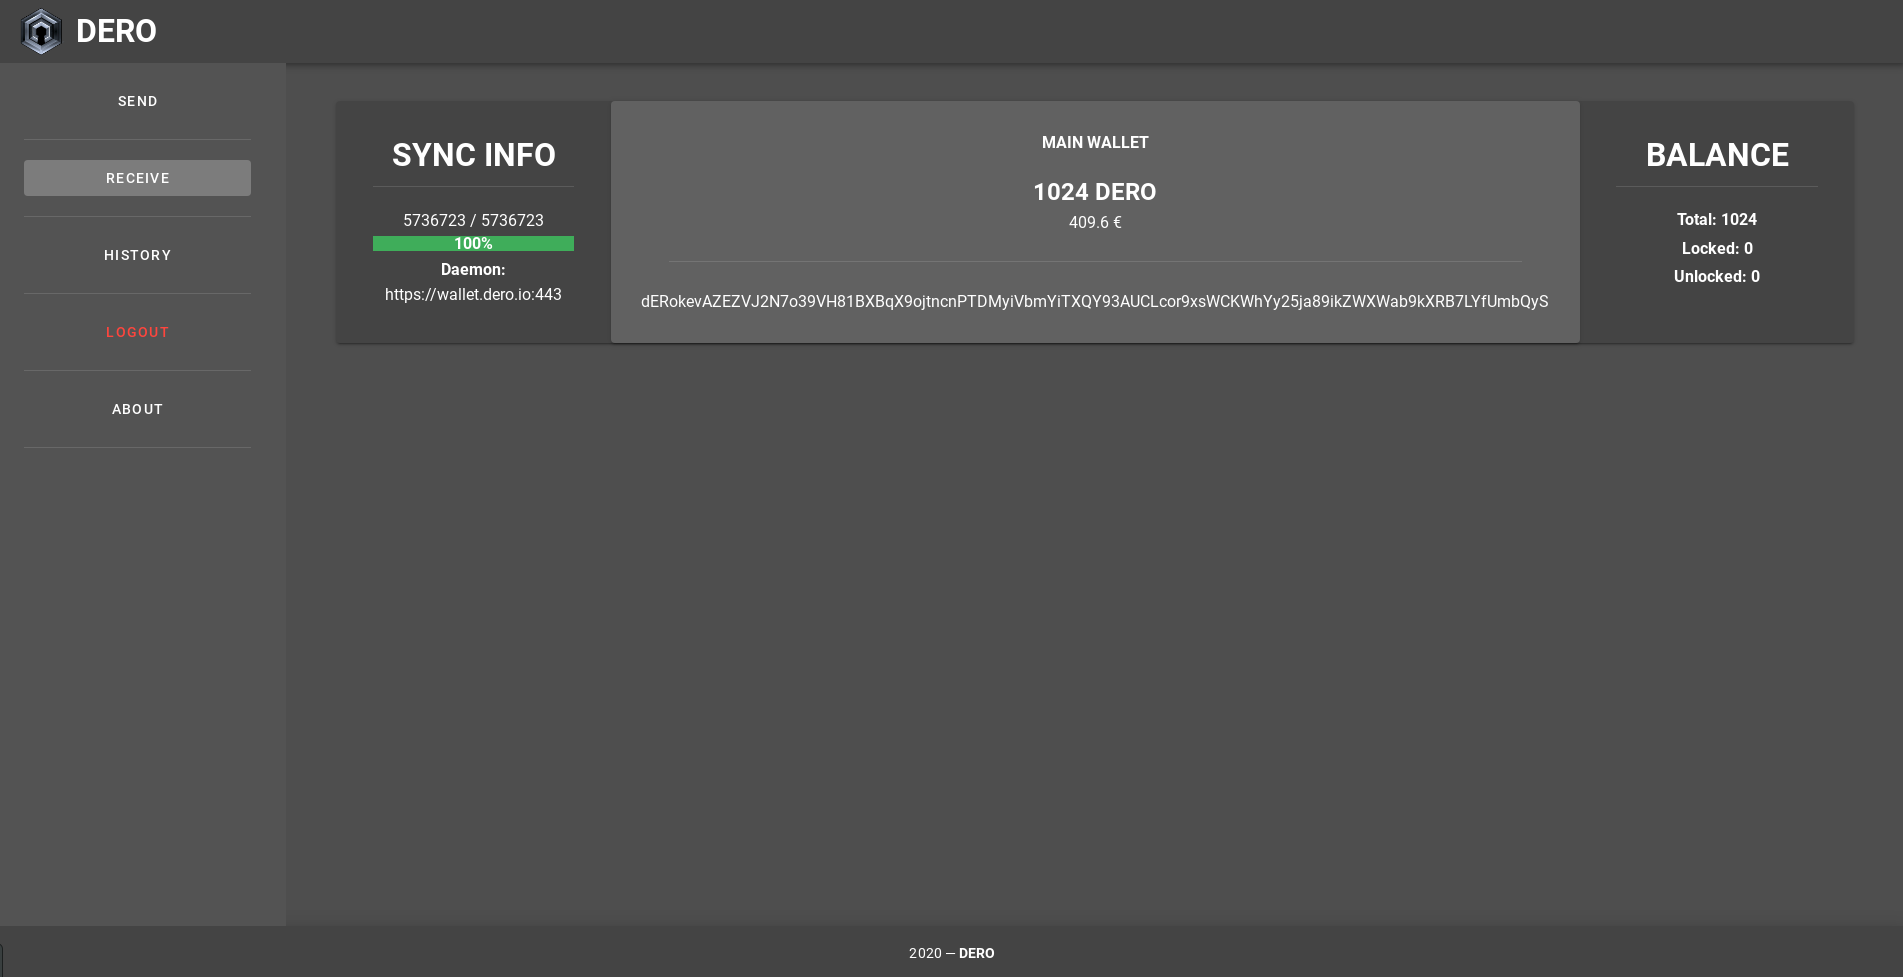
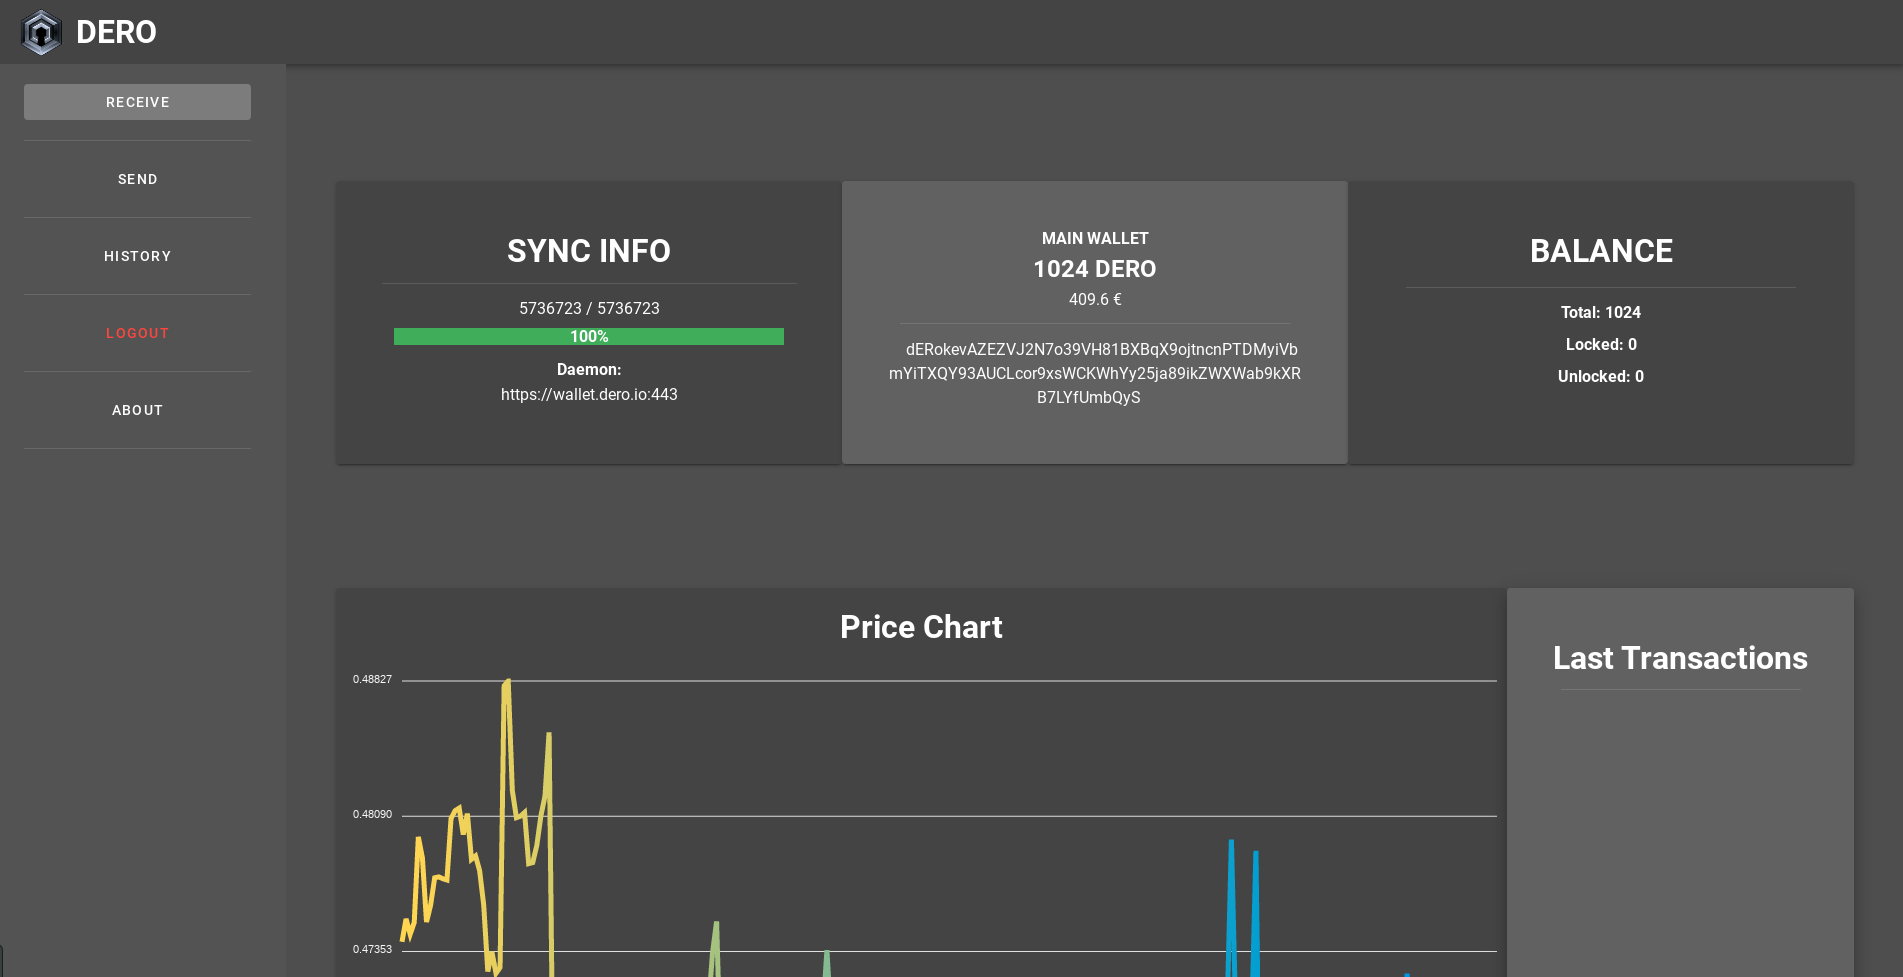
Receive page Responsive

diff --git a/src/views/Receive.vue b/src/views/Receive.vue
@@ -1,9 +1,9 @@
 <template>
 <div id="receive">
-    <v-card class="first-menu">
-        <div class="first-side-menu">
+    <div class="container-menu">
+        <v-card class="default-menu">
             <h1>SYNC INFO</h1>
-            <v-divider class="div-space div-bott"></v-divider>
+            <v-divider class="espaced"></v-divider>
             <div class="div-space">
                 <label>5736723 / 5736723</label>
                 <v-progress-linear class="espaced" color="green" value="100" height="17">
@@ -14,15 +14,15 @@
                 <h4>Daemon:</h4>
                 <span>https://wallet.dero.io:443</span>
             </div>
-        </div>
-        <v-card color="grey darken-2" class="middle-menu">
+        </v-card>
+        <v-card color="grey darken-2" class="default-menu">
             <h4 class="wallet-name">MAIN WALLET</h4>
             <h2>1024 DERO</h2>
             <span>{{ 1024 * 0.4 }} €</span>
             <v-divider class="div-space"></v-divider>
-            <span>dERokevAZEZVJ2N7o39VH81BXBqX9ojtncnPTDMyiVbmYiTXQY93AUCLcor9xsWCKWhYy25ja89ikZWXWab9kXRB7LYfUmbQyS</span>
+            <span class="div-space">dERokevAZEZVJ2N7o39VH81BXBqX9ojtncnPTDMyiVbmYiTXQY93AUCLcor9xsWCKWhYy25ja89ikZWXWab9kXRB7LYfUmbQyS</span>
         </v-card>
-        <div class="first-side-menu">
+        <v-card class="default-menu">
             <h1>BALANCE</h1>
             <v-divider class="div-space div-bott"></v-divider>
             <div>
@@ -30,11 +30,18 @@
                 <h4 class="espaced">Locked: 0</h4>
                 <h4 class="espaced">Unlocked: 0</h4>
             </div>
-        </div>
-    </v-card>
-    <v-card class="chart" v-if="chartReady">
-        <apexchart type="line" :options="priceChart.options" :series="priceChart.datas"></apexchart>
-    </v-card>
+        </v-card>
+    </div>
+    <div class="container-menu">
+        <v-card class="default-menu second-menu chart" v-if="chartReady">
+            <h1>Price Chart</h1>
+            <apexchart type="line" :options="priceChart.options" :series="priceChart.datas"></apexchart>
+        </v-card>
+        <v-card color="grey darken-2" class="default-menu second-menu" elevation="10">
+            <h1>Last Transactions</h1>
+            <v-divider class="div-space div-bott"></v-divider>
+        </v-card>
+    </div>
 </div>
 </template>
 
@@ -62,47 +69,35 @@ export default {
 </script>
 
 <style scoped>
-.first-menu  {
+.container-menu  {
+    margin-top: 5%;
     margin-left: 2%;
     margin-right: 2%;
     display: flex;
-    flex-wrap: nowrap;
     flex-direction: row;
+    flex-wrap: nowrap;
+    word-break: break-all;
+    align-items: stretch;
 }
 
-.first-side-menu {
-    width: 25%;
-    height: 100%;
-    margin-left: auto;
-    margin-right: auto;
-    padding: 2%;
+.default-menu {
+    width: 100%;
+    margin-bottom: 3%;
+    padding: 3%;
 }
 
-.middle-menu {
-    padding: 2%;
-    flex: 1;
-    margin: auto;
+.second-menu {
+    width: auto;
 }
 
 .chart {
-    width: 50%;
-    margin: 2%;
-    margin-top: 3%;
-    margin-bottom: 3%;
-
-    padding: 2%;
-}
-
-.wallet-name {
-    margin-bottom: 2%;
+    flex: 1;
+    padding: 0%;
+    padding-top: 1%;
 }
 
 .div-space {
     margin: 3%;
-}
-
-.div-bott {
-    margin-bottom: 10%;
 }
 
 .espaced {
@@ -110,4 +105,9 @@ export default {
     margin-bottom: 2%;
 }
 
+@media screen and (max-width: 960px) {
+    .container-menu  {
+        flex-direction: column;
+    }
+}
 </style>

diff --git a/src/App.vue b/src/App.vue
@@ -22,7 +22,7 @@
             <v-divider></v-divider>
             </ul>
           </div>
-          <div id="router-content">
+          <div id="router-content" v-show="mobile ? !menu : true">
             <transition name="fade">
               <router-view></router-view>
             </transition>
@@ -93,6 +93,9 @@ export default {
         }
       ]
     }
+  },
+  mounted() {
+    this.mobile = (typeof window.orientation !== "undefined") || (navigator.userAgent.indexOf('IEMobile') !== -1)
   }
 }
 </script>

diff --git a/src/charts.js b/src/charts.js
@@ -72,7 +72,9 @@ export async function priceChart()
     
     for (let i = 0; i < val.length; i++)
     {
-        categories.push(new Date(val[i][0]))
+        let m = new Date(val[i][0])
+        var date = m.getUTCFullYear() +"/"+ (m.getUTCMonth()+1) +"/"+ m.getUTCDate() + " " + m.getUTCHours() + ":" + m.getUTCMinutes() + ":" + m.getUTCSeconds();
+        categories.push(date)
         data.push(val[i][1].toFixed(5))
     }
 
